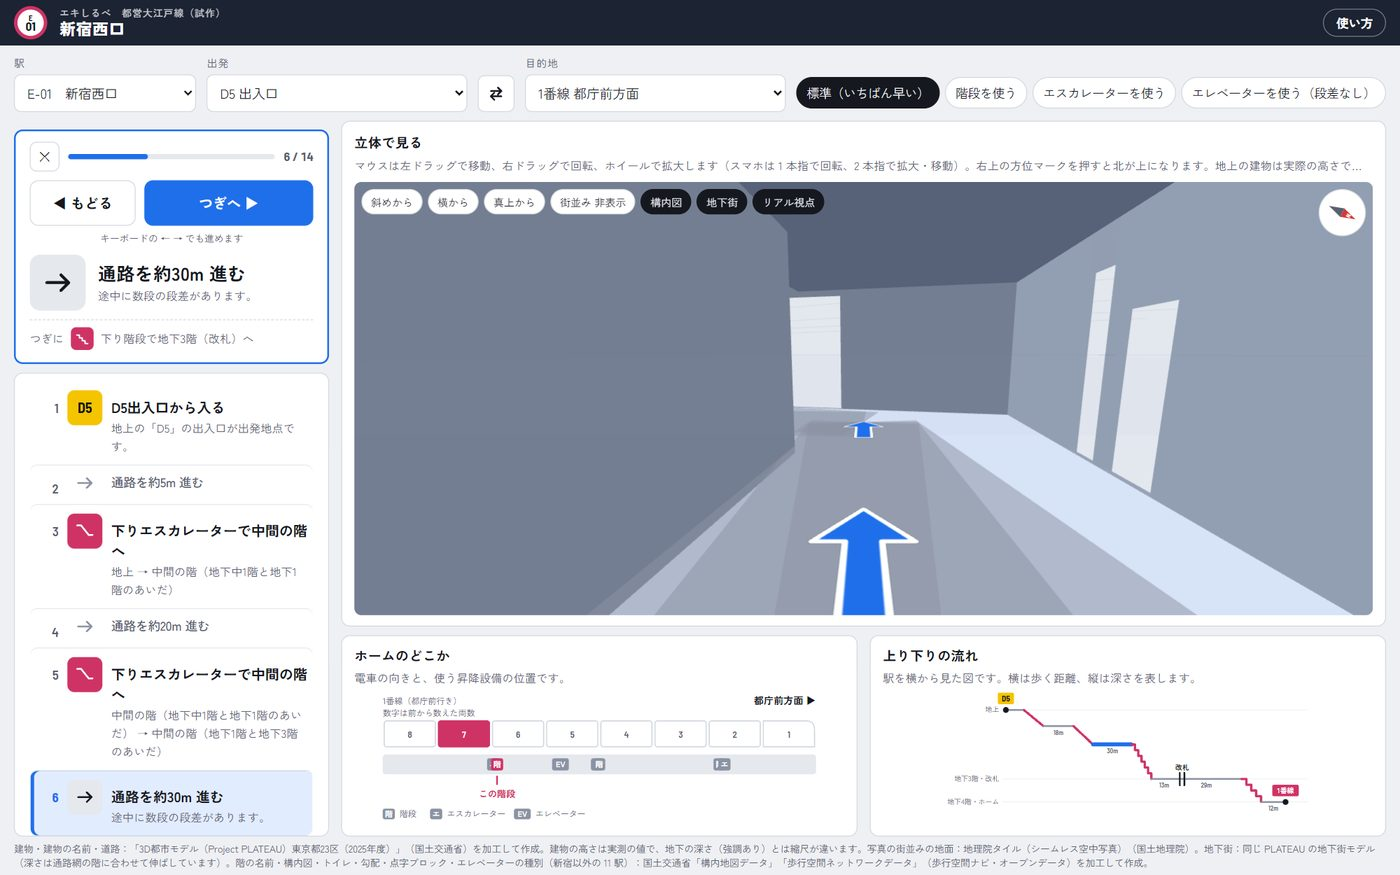
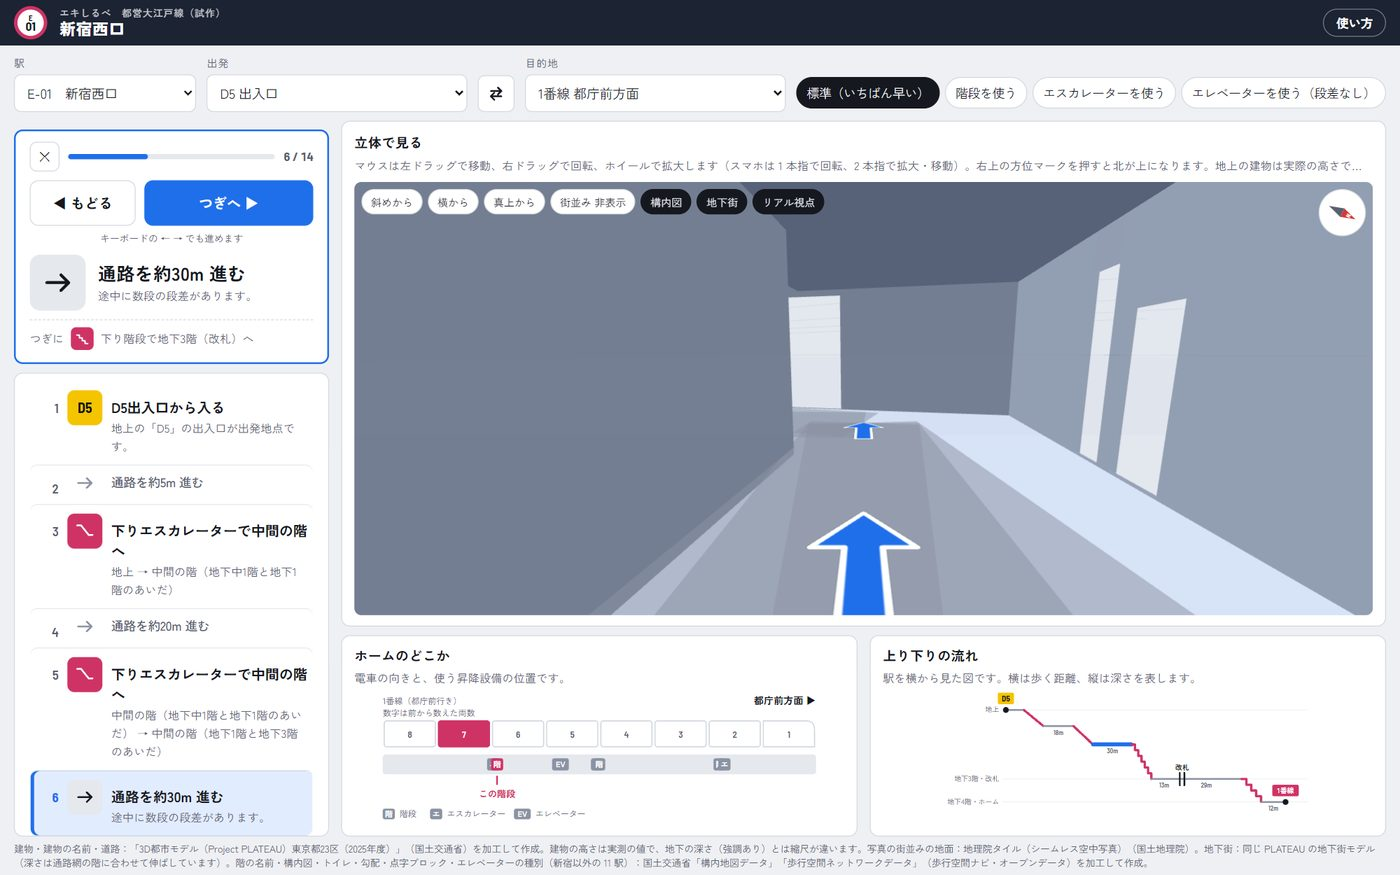
リアル視点のトイレ、案内板の反転、案内を閉じたら止まる

Changed region(s): [[0.7679, 0.3086, 0.86, 0.5554], [0.5836, 0.5863, 0.6757, 0.648], [0.6143, 0.4629, 0.645, 0.4937]]

diff --git a/index.html b/index.html
@@ -1392,10 +1392,34 @@ var View3D = (function () {
     return cur;
   }
   function flatDir(a, b) { var d = new THREE.Vector3(b.x - a.x, 0, b.z - a.z); return d.lengthSq() < 1e-6 ? null : d.normalize(); }
+  // リアル視点のトイレの案内板（濃い紺の地に、白い男女の絵と「トイレ」）
+  var fpvWcTex = null;
+  function fpvToiletTexture() {
+    if (fpvWcTex) return fpvWcTex;
+    var c = document.createElement('canvas'); c.width = 320; c.height = 128;
+    var x = c.getContext('2d');
+    x.fillStyle = css('--sign'); x.beginPath(); x.moveTo(20, 4); x.arcTo(316, 4, 316, 124, 16); x.arcTo(316, 124, 4, 124, 16); x.arcTo(4, 124, 4, 4, 16); x.arcTo(4, 4, 316, 4, 16); x.fill();
+    x.fillStyle = '#ffffff';
+    function head(cx) { x.beginPath(); x.arc(cx, 32, 10, 0, Math.PI * 2); x.fill(); }
+    head(36); head(80);
+    x.fillRect(26, 46, 20, 32); x.fillRect(27, 78, 7, 30); x.fillRect(38, 78, 7, 30);
+    x.beginPath(); x.moveTo(80, 44); x.lineTo(98, 84); x.lineTo(62, 84); x.closePath(); x.fill(); x.fillRect(72, 84, 6, 24); x.fillRect(82, 84, 6, 24);
+    x.fillRect(57, 26, 2, 82);
+    x.font = '900 56px "Zen Kaku Gothic New", "Hiragino Sans", "Yu Gothic", sans-serif'; x.textBaseline = 'middle'; x.fillText('トイレ', 118, 68);
+    fpvWcTex = new THREE.CanvasTexture(c); fpvWcTex.minFilter = THREE.LinearFilter;
+    return fpvWcTex;
+  }
+  // 案内板。裏から見ると文字が左右反転していたので、表と裏に同じ絵を貼った 2 枚にする（2026-10-08）。
+  // 「← 左へ」「右へ →」は裏から見ると向きが逆の意味になるので、表だけ（裏からは見えない）
   function signMesh(text, color, w, arrow) {
-    var m = new THREE.Mesh(new THREE.PlaneGeometry(w, w * 192 / 512), new THREE.MeshBasicMaterial({ map: signTexture(text, color, arrow), side: THREE.DoubleSide, transparent: true, polygonOffset: true, polygonOffsetFactor: -4 }));
-    m.renderOrder = 7;
-    return m;
+    var geo = new THREE.PlaneGeometry(w, w * 192 / 512);
+    var mat = new THREE.MeshBasicMaterial({ map: signTexture(text, color, arrow), side: THREE.FrontSide, transparent: true, polygonOffset: true, polygonOffsetFactor: -4 });
+    var g = new THREE.Group(), front = new THREE.Mesh(geo, mat);
+    front.renderOrder = 7; g.add(front);
+    if (arrow !== 'left' && arrow !== 'right') {
+      var back = new THREE.Mesh(geo, mat); back.rotation.y = Math.PI; back.renderOrder = 7; g.add(back);
+    }
+    return g;
   }
   // 案内板を、進む向きの先の壁（地下街の面）に貼る。壁が見つからなければ 2.5 m 先に浮かせる
   var ray = null;
@@ -1479,6 +1503,22 @@ var View3D = (function () {
       gate.add(s);
       grp.add(gate);
     });
+    // トイレ（構内地図のある駅）: 天井近く（床から 2.4 m）に掛かった案内板。いつも見る人の方を向き、壁の向こうなら壁に隠れる
+    // （2026-10-08 利用者「リアル視点でもトイレを表示できる？」。外から見るときの札・マークはリアル視点では隠している）
+    (curSt && curSt.toilets || []).forEach(function (t) {
+      var best = -1, bd = 15;
+      curSt.nodes.forEach(function (n, i) { // 床の高さは、同じ階のいちばん近い通路網の点から
+        if (Math.abs(n[2] - t[2]) > 0.01) return;
+        var d = Math.hypot(n[0] - t[0], n[1] - t[1]); if (d < bd) { bd = d; best = i; }
+      });
+      var fy = best >= 0 ? V(curSt, best).y : levelY(t[2]);
+      // 壁の向こうでも見える目印にする（トイレの場所は通路から離れていることが多い）。40 m より遠ければ出さない（updateFpv）
+      // 画面上でいつも同じ大きさ（高さ約 34 px。遠いと小さすぎて読めなかった）。リアル視点の視野は 72 度
+      var sp = new THREE.Sprite(new THREE.SpriteMaterial({ map: fpvToiletTexture(), transparent: true, depthTest: false, opacity: 0.9, sizeAttenuation: false }));
+      var wh = 34 / ((el && el.clientHeight) || 440) * 2 * Math.tan(THREE.MathUtils.degToRad(36));
+      sp.scale.set(wh * 2.5, wh, 1); sp.position.set(t[0], fy + 2.4, -t[1]); sp.renderOrder = 15; sp.userData.wc = true;
+      grp.add(sp);
+    });
     fpvSigns = grp; scene.add(grp);
   }
   // 区間をたどる: i が手順の番号（出発・到着は、その場所で止まって前を見る）、-1 なら経路全体
@@ -1502,6 +1542,7 @@ var View3D = (function () {
     if (!fpvWalk) return;
     var w = fpvWalk, u = w.fixedU !== null ? w.fixedU : w.u0 + (w.u1 - w.u0) * Math.min(1, (now - w.s) / w.d);
     w.u = u; // 到着のピンの濃さに使う（残りの道のり）
+    if (fpvSigns) fpvSigns.children.forEach(function (c) { if (c.userData.wc) c.visible = c.position.distanceTo(camera.position) < 40; }); // 遠いトイレは出さない
     // 経路全体を歩くときは、左の歩く順番をいま歩いている手順に合わせる（「歩く様子」と同じ。2026-10-08 利用者「リアル視点は連動していない。連動してほしい」）
     if (w.whole && w.fixedU === null) {
       var ws = u >= 1 ? -1 : stepAt(u);
@@ -2254,7 +2295,13 @@ var View3D = (function () {
 
   function focus(i) {
     if (!home) return;
-    if (fpv) { fpvStart(i); return; } // 中から見るときは、その区間を目の高さでたどる
+    if (fpv) {
+      // リアル視点: 手順ならその区間を目の高さでたどる。手順を外したとき（案内を × で閉じたなど）は、その場で止まる
+      // （前は経路全体を歩き出していた。2026-10-08 利用者「リアル視点で…移動中に×を押すと、自動案内がはじまる」）
+      if (i >= 0) fpvStart(i);
+      else if (fpvWalk) fpvWalk.fixedU = fpvWalk.u != null ? fpvWalk.u : fpvWalk.u0;
+      return;
+    }
     if (i < 0) { lastFocus = null; setView('oblique'); return; }
     var t = segTubes.filter(function (s) { return s.userData.step === i; })[0];
     var center, size;

diff --git a/manual.html b/manual.html
@@ -151,7 +151,7 @@ a { color: var(--sel); }
   <figure><img src="manual/16_real_view.jpg" alt="リアル視点の画面。地下街の通路を人の目の高さで見ていて、床に進む向きの青い矢印が並んでいる。左の歩く順番では「通路を約30m 進む」が選ばれている" loading="lazy"><figcaption>リアル視点（新宿西口、D5 → 1番線の「通路を約30m 進む」）。床の青い「↑」が進む向き</figcaption></figure>
   <figure><img src="manual/17_real_gate.jpg" alt="リアル視点の画面。通路の先に改札機の列と緑の「改札」の案内板が見える。左の案内カードは「改札に入る」" loading="lazy"><figcaption>改札の手前。改札機の列と緑の「改札」の案内板が見えます</figcaption></figure>
   <ul>
-    <li>平らな通路の床に約 4 m おきに青い「↑」、曲がり角では進む先の壁に「← 左へ」「右へ →」、階段・エスカレーターの入口に「↓ 階段」などの案内板を出します。改札では、通路を横切る改札機の列（通れる所の上に緑の明かり）と、緑の「改札」の案内板を出します。</li>
+    <li>平らな通路の床に約 4 m おきに青い「↑」、曲がり角では進む先の壁に「← 左へ」「右へ →」、階段・エスカレーターの入口に「↓ 階段」などの案内板を出します。改札では、通路を横切る改札機の列（通れる所の上に緑の明かり）と、緑の「改札」の案内板を出します。トイレは、壁の向こうでも見える「トイレ」の案内板を天井近くに出します（40 m 以内）。</li>
     <li>地下街のデータにはホームと、ホームへ下りる階段が無いので、改札の先は壁の無い所を歩きます。元データの通路の位置と地下街のモデルが数 m ずれている所では、壁の外に出ることがあります。</li>
     <li>「斜めから」などの視点のボタンを押すと、外からの見え方に戻ります。</li>
   </ul>
